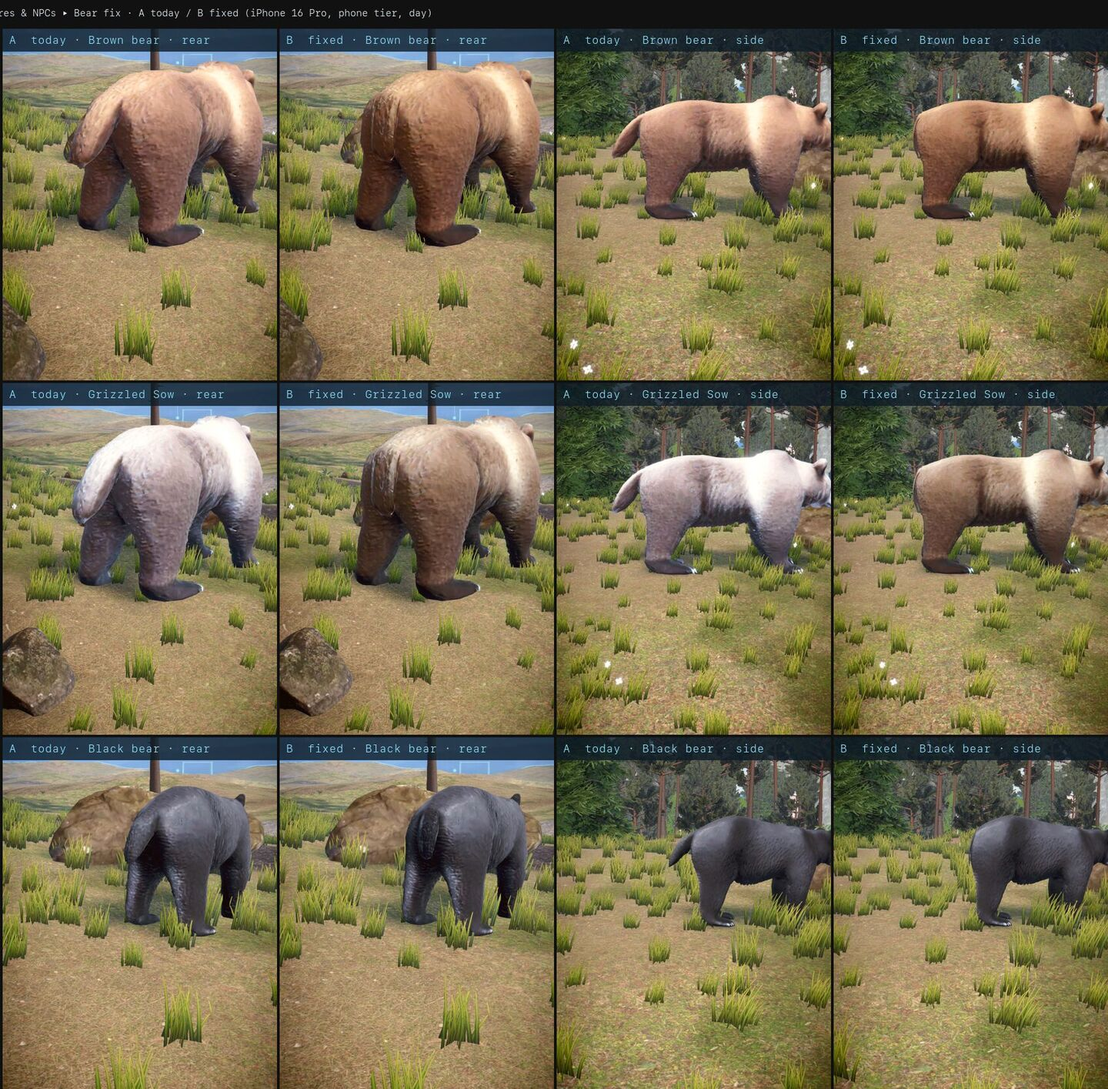
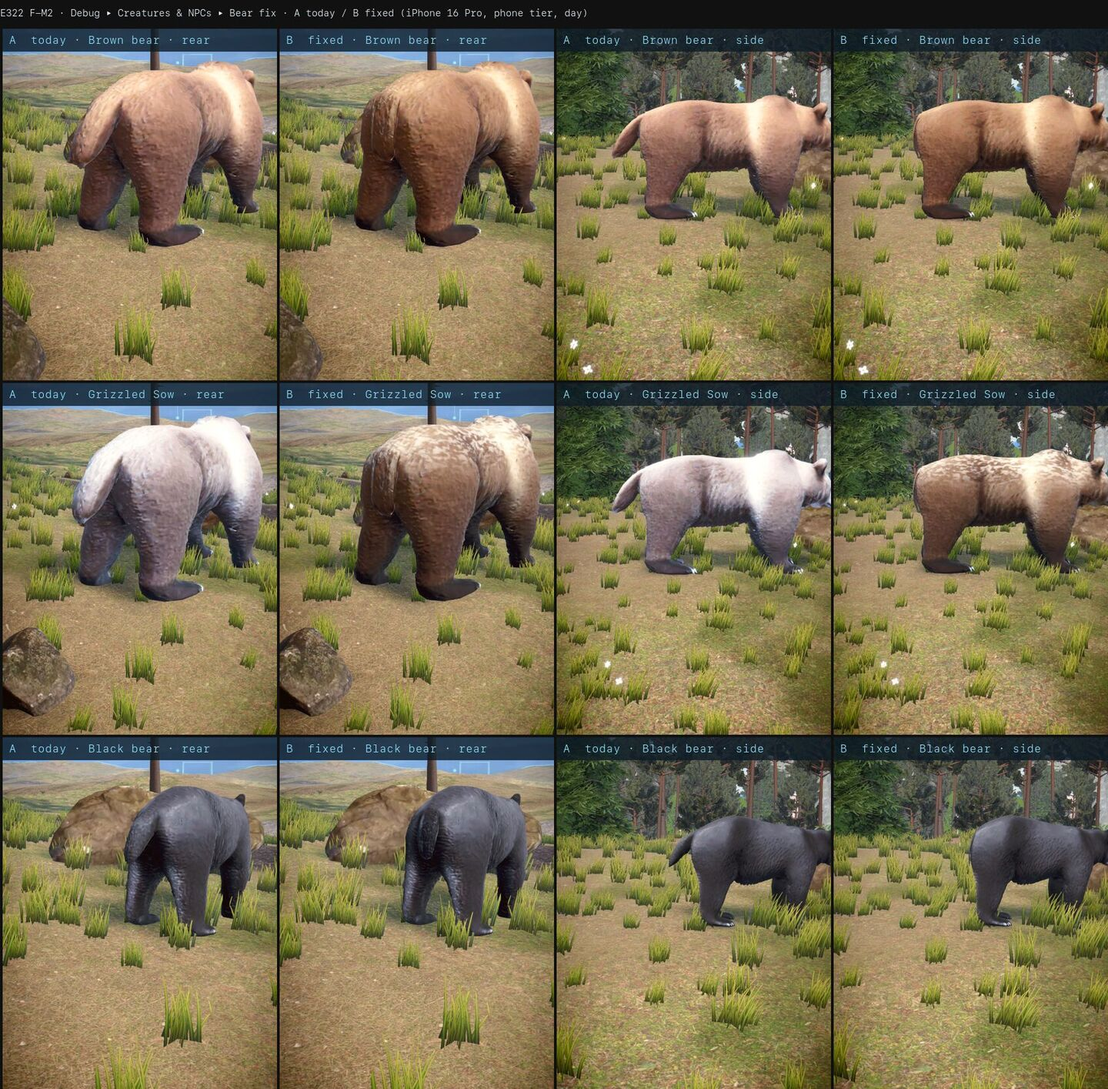
E322 F-M2: the Grizzled Sow reads grizzled in Bear fix B — silver tips over her hump, shoulders and back, darker legs, a darker brown base
Review of 866b1070: in B the Sow was nearly indistinguishable from the brown bear. Her measured coat now carries a
`grizzle` tip colour (bearFix.ts BEAR_FIX_COATS['brown-old']); pineCoats.ts frosts it over the up-facing upper body in
hair-scale streaks riding the atlas's own bright hairs, strongest over the shoulder hump, and fades the legs darker toward
the paws. No mesh change, no new bytes; A untouched. Board: the Sow's two B panels re-shot
(art/pine-hollow/round-19-e322-bears-birds/bears-board.jpg); scripts/e322-bears-capture.mjs takes --bears=.

Claude-Session: https://claude.ai/code/session_01UVATwJZC8NaFzZwwMnQYsw

diff --git a/src/entities/pineCoats.ts b/src/entities/pineCoats.ts
@@ -32,7 +32,8 @@ export interface CoatSpec {
   /**
    * E322 F-M2 (Debug ▸ Bear fix = B): per variant id, the coat keys' target tones (sRGB). The SOURCE tones are then
    * measured off the atlas itself (the mean colour round each key's luminance percentile), not taken from the palette,
-   * so the hull's own tones land exactly on the targets. A variant not listed keeps the palette path.
+   * so the hull's own tones land exactly on the targets. A variant not listed keeps the palette path. A `grizzle` entry
+   * (the tips' colour) paints silver guard-hair tips over the hump, the shoulders and the back, the legs darker.
    */
   measured?: Readonly<Record<string, Readonly<Record<string, RGB>>>>;
 }
@@ -486,6 +487,38 @@ export function pineCoatAtlas(key: string, spec: CoatSpec, rig: CoatRig, v: Vari
         }
       }
       lin[i * 3] = Math.min(1, Math.max(0, r)); lin[i * 3 + 1] = Math.min(1, Math.max(0, g)); lin[i * 3 + 2] = Math.min(1, Math.max(0, b));
+    }
+  }
+
+  // ── 3. a measured coat's grizzle (E322 F-M2: the Grizzled Sow — `measured[v.id].grizzle` = the tips' colour): silver
+  //    guard-hair tips over the hump, the shoulders and the back, streaky, riding the photo's own bright hairs; the legs
+  //    fade darker. Brown stays brown under it ──
+  const grizzle = measured?.['grizzle'];
+  if (grizzle !== undefined) {
+    const s = surfaceOf(geometry, W, H, flipY);
+    const box = geometry.boundingBox ?? new THREE.Box3().setFromBufferAttribute(geometry.getAttribute('position') as THREE.BufferAttribute);
+    const y0 = box.min.y, hgt = Math.max(0.2, box.max.y - box.min.y), sc = 1 / hgt;
+    const neck = boneAt(bones, 'neck1'), body = boneAt(bones, 'body');
+    const hump = neck && body ? neck.z - 0.25 * (neck.z - body.z) : null;   // the shoulder hump, just behind the neck
+    const tip = linOf(grizzle);
+    for (let i = 0; i < W * H; i++) {
+      if (s.covered[i] === 0) continue;
+      const x = s.pos[i * 3] ?? 0, y = s.pos[i * 3 + 1] ?? 0, z = s.pos[i * 3 + 2] ?? 0, ny = s.nrm[i * 3 + 1] ?? 0;
+      const h = (y - y0) * sc;   // 0 at the paws, 1 at the top of the hump
+      let r = lin[i * 3] ?? 0, g = lin[i * 3 + 1] ?? 0, b = lin[i * 3 + 2] ?? 0;
+      const lum = 0.2126 * r + 0.7152 * g + 0.0722 * b;
+      // the tips: up-facing, high on the body, strongest over the hump, broken into streaks
+      const streak = fbm(x * sc * 38 + 3, y * sc * 70, z * sc * 38, 2);   // hair-scale streaks, combed down
+      const humpW = hump !== null ? 1 - 0.45 * smooth(0.15, 0.55, Math.abs(z - hump) * sc) : 0.8;
+      const m = smooth(0, 0.7, ny) * smooth(0.6, 0.85, h) * humpW * smooth(0.42, 0.62, streak);
+      if (m > 0) {
+        const detail = Math.min(1.5, Math.max(0.5, Math.sqrt(lum / 0.1)));   // the photo's own hairs, as lightness
+        const k = 0.55 * m;
+        r += (tip[0] * detail - r) * k; g += (tip[1] * detail - g) * k; b += (tip[2] * detail - b) * k;
+      }
+      // the legs fade darker toward the paws
+      const leg = 1 - 0.3 * smooth(0.45, 0.12, h);
+      lin[i * 3] = Math.min(1, Math.max(0, r * leg)); lin[i * 3 + 1] = Math.min(1, Math.max(0, g * leg)); lin[i * 3 + 2] = Math.min(1, Math.max(0, b * leg));
     }
   }
 

diff --git a/src/entities/bearFix.ts b/src/entities/bearFix.ts
@@ -17,8 +17,9 @@
  *    source) and in Pine Hollow's light — the fur material's warm sheen and backlit rim over a pale tan — it reads pinkish;
  *    the Grizzled Sow is that atlas pushed paler still under a near-white rim, and reads near-white. Fixed, the hull's own
  *    three tones are MEASURED off its atlas and mapped exactly onto real brown-bear tones (BEAR_FIX_COATS: a grizzly's
- *    deep brown legs, mid-brown body, blond guard-hair tips; the Sow's silver-tipped version), and the sheen and rim take
- *    the coat's own hue (BEAR_FIX_FUR) instead of a pale pink-white.
+ *    deep brown legs, mid-brown body, blond guard-hair tips; the Sow a darker brown with silver tips painted over her hump,
+ *    shoulders and back, her legs darker), and the sheen and rim take the coat's own hue (BEAR_FIX_FUR) instead of a pale
+ *    pink-white.
  */
 import type { RGB } from './species/loft';
 
@@ -97,11 +98,11 @@ export function weldIds(pos: ArrayLike<number>): Int32Array {
  * The fixed bears' coats: per variant, the brown hull's [dark, base, tip] keys (sRGB albedo). A variant not here keeps
  * its hull's own tones. Brown: a grizzly's deep brown legs and belly, mid-brown body, blond guard-hair tips (hue ~25–35°,
  * saturation ~0.5–0.6 — where the pink tan measured at hue 13–22° sat). Grizzled Sow: the same bear old and
- * silver-tipped — a greyer brown body, silver-cream tips, never near-white.
+ * silver-tipped — a darker brown body and legs, `grizzle`: silver tips over the hump and back (pineCoats.ts), never white.
  */
 export const BEAR_FIX_COATS: Readonly<Record<string, Readonly<Record<string, RGB>>>> = {
   brown: { dark: [0.17, 0.115, 0.08], base: [0.40, 0.28, 0.185], tip: [0.64, 0.51, 0.37] },
-  'brown-old': { dark: [0.16, 0.115, 0.08], base: [0.36, 0.28, 0.20], tip: [0.60, 0.54, 0.46] },
+  'brown-old': { dark: [0.14, 0.10, 0.07], base: [0.34, 0.25, 0.17], tip: [0.58, 0.50, 0.40], grizzle: [0.70, 0.67, 0.61] },
 };
 
 /** the fixed bears' sheen and backlit rim (FurStyle), in the coat's own hue */

diff --git a/art/pine-hollow/round-19-e322-bears-birds/README.md b/art/pine-hollow/round-19-e322-bears-birds/README.md
@@ -35,9 +35,14 @@ Measured in game (torso crop of the side shot, sRGB mean at the 12 / 55 / 92 % l
 | A brown (today) | h4 s0.28 | **h16 s0.37** (rose-tan) | h29 s0.32 |
 | B brown | h14 s0.45 | **h22 s0.50** | h36 s0.36 |
 | A Grizzled Sow (today) | h290 s0.11 | h0 s0.11 | **[0.90, 0.87, 0.86] s0.04** (near-white) |
-| B Grizzled Sow | h12 s0.29 | h25 s0.38 | h36 s0.24 (silver-cream [0.75, 0.68, 0.57]) |
+| B Grizzled Sow, first cut | h12 s0.29 | h25 s0.38 | h36 s0.24 (silver-cream [0.75, 0.68, 0.57]) |
 
-B's brown body lands on the photo's hue (22°) at a touch more saturation; the Sow is a greyer, silver-tipped brown.
+B's brown body lands on the photo's hue (22°) at a touch more saturation. Review of the first cut (866b1070): the Sow
+was "nearly indistinguishable from the Brown bear". Now (the board's Sow B panels were re-shot): her base is a darker
+brown, and a `grizzle` pass in pineCoats.ts frosts silver guard-hair tips over her hump, shoulders and back (up-facing,
+high on the body, hair-scale streaks riding the photo's own bright hairs), her legs fading darker toward the paws. A
+first try at that frost was a white saddle with brown blotches (too strong, too coarse); the shipped one is finer and
+about half as strong.
 
 Left, visible on the board: from straight behind, B's pressed patch still shows a faint outline where it meets the rump
 (the black bear's most: its flap was the larger), and the colour fill softens the hair texture there. The silhouette —
